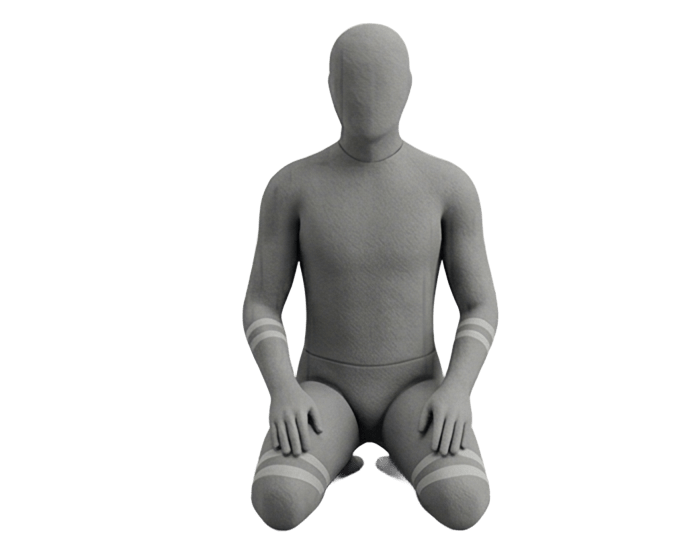
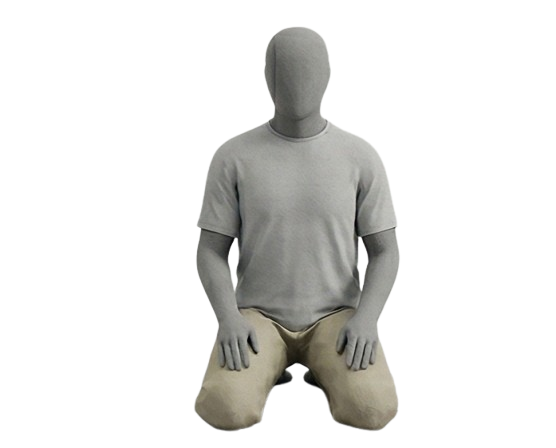
photo update

Changed region(s): [[0.3363, 0.2188, 0.7338, 0.9688], [0.4586, 0.0312, 0.6115, 0.1562], [0.4586, 0.1562, 0.4892, 0.2188]]

diff --git a/salah-app.jsx b/salah-app.jsx
@@ -11,6 +11,7 @@ import rukuImg from "./images/ruku.png";
 import standingFromRukuImg from "./images/standing from ruku.png";
 import sujoodImg from "./images/sujood.png";
 import sittingImg from "./images/sitting.png";
+import tashahudImg from "./images/tashahud.png";
 import salamLeftImg from "./images/salam left.png";
 import salamRightImg from "./images/salam right.png";
 
@@ -22,6 +23,7 @@ const POSE_IMAGES = {
   STANDING_FROM_RUKU: standingFromRukuImg,
   SUJOOD: sujoodImg,
   SITTING: sittingImg,
+  TASHAHUD: tashahudImg,
   SALAM_RIGHT: salamRightImg,
   SALAM_LEFT: salamLeftImg,
 };
@@ -146,19 +148,19 @@ const secondSujood = () => ({
   instruction: "Magpatirapa ulit tulad ng unang sujood.",
 });
 const takbirToTashahhud = () => ({
-  title: "Takbir (Tashahhud)", pose: "SITTING",
+  title: "Takbir (Tashahhud)", pose: "TASHAHUD",
   arabic: "اللَّهُ أَكْبَرُ", transliteration: "Allaahu Akbar", tagalog: "Ang Allah ay Dakila",
   instruction: "Sabihin ang 'Allaahu Akbar' habang bumabangon mula sa Sujood para sa Tashahhud (Pananatiling nakaupo).",
 });
 const tashahhud = () => ({
-  title: "Tashahhud (At-Tahiyyat)", pose: "SITTING",
+  title: "Tashahhud (At-Tahiyyat)", pose: "TASHAHUD",
   arabic: "التَّحِيَّاتُ لِلَّهِ وَالصَّلَاوَاتُ وَالطَّيِّبَاتُ\nالسَّلَامُ عَلَيْكَ أَيُّهَا النَّبِيُّ وَرَحْمَةُ اللَّهِ وَبَرَكَاتُهُ\nالسَّلَامُ عَلَيْنَا وَعَلَى عِبَادِ اللَّهِ الصَّالِحِينَ\nأَشْهَدُ أَنْ لَا إِلَهَ إِلَّا اللَّهُ\nوَأَشْهَدُ أَنْ مُحَمَّدًا عَبْدُهُ وَرَسُولُهُ",
   transliteration: "At-tahiyyaatu lillaahi was-salawaatu wat-tayyibaat\nAs-salaamu 'alayka ayyuhan-nabiyyu wa rahmatullaahi wa barakaatuh\nAs-salaamu 'alaynaa wa 'alaa 'ibaadillaahis-saaliheen\nAsh-hadu an laa ilaaha illallaah\nWa ash-hadu anna Muhammadan 'abduhu wa rasooluh",
   tagalog: "Ang lahat ng pagbati, panalangin at kabutihan ay para sa Allah\nKapayapaan sa iyo, O Propeta, at ang awa at pagpapala ng Allah\nKapayapaan sa amin at sa lahat ng mabubuting lingkod ng Allah\nAko ay sumasaksi na walang diyos kundi ang Allah\nAt ako ay sumasaksi na si Muhammad ay Kanyang alipin at Sugo",
   instruction: "Umupo at basahin ang Tashahhud. Ituro ang hintuturo (shahadah finger) sa 'Ash-hadu'.",
 });
 const salawat = () => ({
-  title: "Salawat (Durood Ibrahim)", pose: "SITTING",
+  title: "Salawat (Durood Ibrahim)", pose: "TASHAHUD",
   arabic: "اللَّهُمَّ صَلِّ عَلَى مُحَمَّدٍ وَعَلَى آلِ مُحَمَّدٍ\nكَمَا صَلَّيْتَ عَلَى إِبْرَاهِيمَ وَعَلَى آلِ إِبْرَاهِيمَ\nإِنَّكَ حَمِيدٌ مَجِيدٌ\n\nاللَّهُمَّ بَارِكْ عَلَى مُحَمَّدٍ وَعَلَى آلِ مُحَمَّدٍ\nكَمَا بَارَكْتَ عَلَى إِبْرَاهِيمَ وَعَلَى آلِ إِبْرَاهِيمَ\nإِنَّكَ حَمِيدٌ مَجِيدٌ",
   transliteration: "Allaahumma salli 'alaa Muhammad wa 'alaa aali Muhammad\nKamaa sallayta 'alaa Ibraaheem wa 'alaa aali Ibraaheem\nInnaka hameedun majeed\n\nAllaahumma baarik 'alaa Muhammad wa 'alaa aali Muhammad\nKamaa baarakta 'alaa Ibraaheem wa 'alaa aali Ibraaheem\nInnaka hameedun majeed",
   tagalog: "O Allah, pagpalain Mo si Muhammad at ang pamilya ni Muhammad\nTulad ng pagpapala Mo kay Ibrahim at sa pamilya ni Ibrahim\nKatotohanan, Ikaw ay Kapuri-puri at Maluwalhati\n\nO Allah, igawad Mo ang Iyong pagpapala kay Muhammad at sa pamilya ni Muhammad\nTulad ng paggawad Mo ng pagpapala kay Ibrahim at sa pamilya ni Ibrahim\nKatotohanan, Ikaw ay Kapuri-puri at Maluwalhati",
@@ -191,7 +193,7 @@ const tashFirst = () => ({
 // ============================================================
 
 const dhikr1 = () => ({
-  title: "Dhikr 1: Astaghfirullah", pose: "SITTING",
+  title: "Dhikr 1: Astaghfirullah", pose: "TASHAHUD",
   arabic: "أَسْتَغْفِرُ اللَّهَ (٣x)\n\nاللَّهُمَّ أَنْتَ السَّلَامُ وَمِنْكَ السَّلَامُ تَبَارَكْتَ يَا ذَا الْجَلَالِ وَالْإِكْرَامِ",
   transliteration: "Astaghfirullaah (3x)\n\nAllaahumma Antas-Salaamu wa minkas-salaamu tabaarakta yaa Zal-Jalaali wal-Ikraam",
   tagalog: "Ako ay humihingi ng tawad sa Allah (3x).\n\nO Allah, Ikaw ang Kapayapaan at mula sa Iyo ang kapayapaan. Mapagpala Ka, O Nagtataglay ng Kadakilaan at Karangalan.",
@@ -199,7 +201,7 @@ const dhikr1 = () => ({
 });
 
 const dhikr2 = () => ({
-  title: "Dhikr 2: Tawheed & Praise", pose: "SITTING",
+  title: "Dhikr 2: Tawheed & Praise", pose: "TASHAHUD",
   arabic: "لَا إِلَهَ إِلَّا اللَّهُ وَحْدَهُ لَا شَرِيكَ لَهُ، لَهُ الْمُلْكُ وَلَهُ الْحَمْدُ وَهُوَ عَلَى كُلِّ شَيْءٍ قَدِيرٌ\n\nاللَّهُمَّ لَا مَانِعَ لِمَا أَعْطَيْتَ، وَلَا مُعْطِيَ لِمَا مَنَعْتَ، وَلَا يَنْفَعُ ذَا الْجَدِّ مِنْكَ الْجَدُّ",
   transliteration: "Laa ilaaha illallaahu wahdahoo laa shareeka lahoo, lahul-mulku wa lahul-hamdu wa Huwa 'alaa kulli shay'in Qadeer\n\nAllaahumma laa maani'a limaa a'tayta, wa laa mu'tiya limaa mana'ta, wa laa yanfa'u zal-jaddi minkal-jadd",
   tagalog: "Walang diyos maliban sa Allah, Siyang Nag-iisa... O Allah, walang makakahadlang sa Iyong ibibigay at walang makakapagbigay sa Iyong ipinagkait.",
@@ -207,7 +209,7 @@ const dhikr2 = () => ({
 });
 
 const dhikr3 = () => ({
-  title: "Dhikr 3: La Hawla...", pose: "SITTING",
+  title: "Dhikr 3: La Hawla...", pose: "TASHAHUD",
   arabic: "لَا حَوْلَ وَلَا قُوَّةَ إِلَّا بِاللَّهِ، لَا إِلَهَ إِلَّا اللَّهُ وَلَا نَعْبُدُ إِلَّا إِيَّاهُ، لَهُ النِّعْمَةُ وَلَهُ الْفَضْلُ وَلَهُ الثَّنَاءُ الْحَسَنُ، لَا إِلَهَ إِلَّا اللَّهُ مُخْلِصِينَ لَهُ الدِّينَ وَلَوْ كَرِهَ الْكَافِرُونَ",
   transliteration: "Laa hawla wa laa quwwata illaa billaah, laa ilaaha illallaahu wa laa na'budu illaa iyyaah, lahun-ni'matu wa lahul-fadlu wa lahus-thanaa'ul-hasan, laa ilaaha illallaahu mukhliseena lahud-deena wa law karihal-kaafiroon",
   tagalog: "Walang kapangyarihan at lakas kundi mula sa Allah... Siya lamang ang aming sinasamba...",
@@ -215,7 +217,7 @@ const dhikr3 = () => ({
 });
 
 const tasbih33 = () => ({
-  title: "Tasbih, Tahmid, & Takbir", pose: "SITTING",
+  title: "Tasbih, Tahmid, & Takbir", pose: "TASHAHUD",
   arabic: "سُبْحَانَ اللَّهِ (33x)\nالْحَمْدُ لِلَّهِ (33x)\nاللَّهُ أَكْبَرُ (33x)\n\n(Pang-100):\nلَا إِلَهَ إِلَّا اللَّهُ وَحْدَهُ لَا شَرِيكَ لَهُ، لَهُ الْمُلْكُ وَلَهُ الْحَمْدُ وَهُوَ عَلَى كُلِّ شَيْءٍ قَدِيرٌ",
   transliteration: "Subhaanallaah (33x)\nAlhamdu lillaah (33x)\nAllaahu Akbar (33x)\n\n(100th):\nLaa ilaaha illallaahu wahdahoo laa shareeka lahoo, lahul-mulku wa lahul-hamdu wa Huwa 'alaa kulli shay'in Qadeer",
   tagalog: "Luwalhati sa Allah (33x), Papuri sa Allah (33x), Ang Allah ay Dakila (33x). Kumpletuhin ang 100 sa pamamagitan ng pag-aalinlangan na walang ibang diyos...",
@@ -223,7 +225,7 @@ const tasbih33 = () => ({
 });
 
 const dhikr4_fajr_maghrib = () => ({
-  title: "Dhikr 4: (10x pagkatapos ng Fajr/Maghrib)", pose: "SITTING",
+  title: "Dhikr 4: (10x pagkatapos ng Fajr/Maghrib)", pose: "TASHAHUD",
   arabic: "لَا إِلَهَ إِلَّا اللَّهُ وَحْدَهُ لَا شَرِيكَ لَهُ، لَهُ الْمُلْكُ وَلَهُ الْحَمْدُ يُحْيِي وَيُمِيتُ وَهُوَ عَلَى كُلِّ شَيْءٍ قَدِيرٌ (١٠x)",
   transliteration: "Laa ilaaha illallaahu wahdahoo laa shareeka lahoo, lahul-mulku wa lahul-hamdu, yuhyee wa yumeetu, wa Huwa 'alaa kulli shay'in Qadeer (10x)",
   tagalog: "Walang diyos maliban sa Allah... Siya ang nagbibigay ng buhay at nagdudulot ng kamatayan... (10 beses)",
@@ -231,7 +233,7 @@ const dhikr4_fajr_maghrib = () => ({
 });
 
 const ayatUlKursi = () => ({
-  title: "Dhikr 5: Ayat-ul-Kursi", pose: "SITTING",
+  title: "Dhikr 5: Ayat-ul-Kursi", pose: "TASHAHUD",
   arabic: "اللَّهُ لَا إِلَهَ إِلَّا هُوَ الْحَيُّ الْقَيُّومُ لَا تَأْخُذُهُ سِنَةٌ وَلَا نَوْمٌ لَهُ مَا فِي السَّمَاوَاتِ وَمَا فِي الْأَرْضِ مَنْ ذَا الَّذِي يَشْفَعُ عِنْدَهُ إِلَّا بِإِذْنِهِ يَعْلَمُ مَا بَيْنَ أَيْدِيهِمْ وَمَا خَلْفَهُمْ وَلَا يُحِيطُونَ بِشَيْءٍ مِنْ عِلْمِهِ إِلَّا بِمَا شَاءَ وَسِعَ كُرْسِيُّهُ السَّمَاوَاتِ وَالْأَرْضَ وَلَا يَئُودُهُ حِفْظُهُمَا وَهُوَ الْعَلِيُّ الْعَظِيمُ",
   transliteration: "Allaahu laa ilaaha illaa Huwal-Hayyul-Qayyoom; laa ta'khuzuhu sinatun wa laa nawm; lahu maa fissamaawaati wa maa fil-ard; man zallazee yashfa'u 'indahoo illaa bi-iznih; ya'lamu maa bayna aydeehim wa maa khalfahum, wa laa yuheetoona bishay'im min 'ilmihee illaa bimaa shaaa'; wasi'a Kursiyyuhus samaawaati wal arda wa laa ya'ooduhoo hifzuhumaa; wa Huwal 'Aliyyul 'Azeem",
   tagalog: "Ang Allah, walang ibang diyos kundi Siya, ang Buhay, ang Walang-hanggan... (Ayat-ul-Kursi)",
@@ -239,7 +241,7 @@ const ayatUlKursi = () => ({
 });
 
 const threeQuls_3x = () => ({
-  title: "Dhikr 6: 3 Quls (3x)", pose: "SITTING",
+  title: "Dhikr 6: 3 Quls (3x)", pose: "TASHAHUD",
   arabic: "Suratul Ikhlas (3x)\nSuratul Al-Falaq (3x)\nSuratul An-Nas (3x)",
   transliteration: "Qul huwallaahu ahad... (3x)\nQul a'oozu birabbil falaq... (3x)\nQul a'oozu birabbin naas... (3x)",
   tagalog: "Basahin ang bawat surah ng tatlong beses.",
